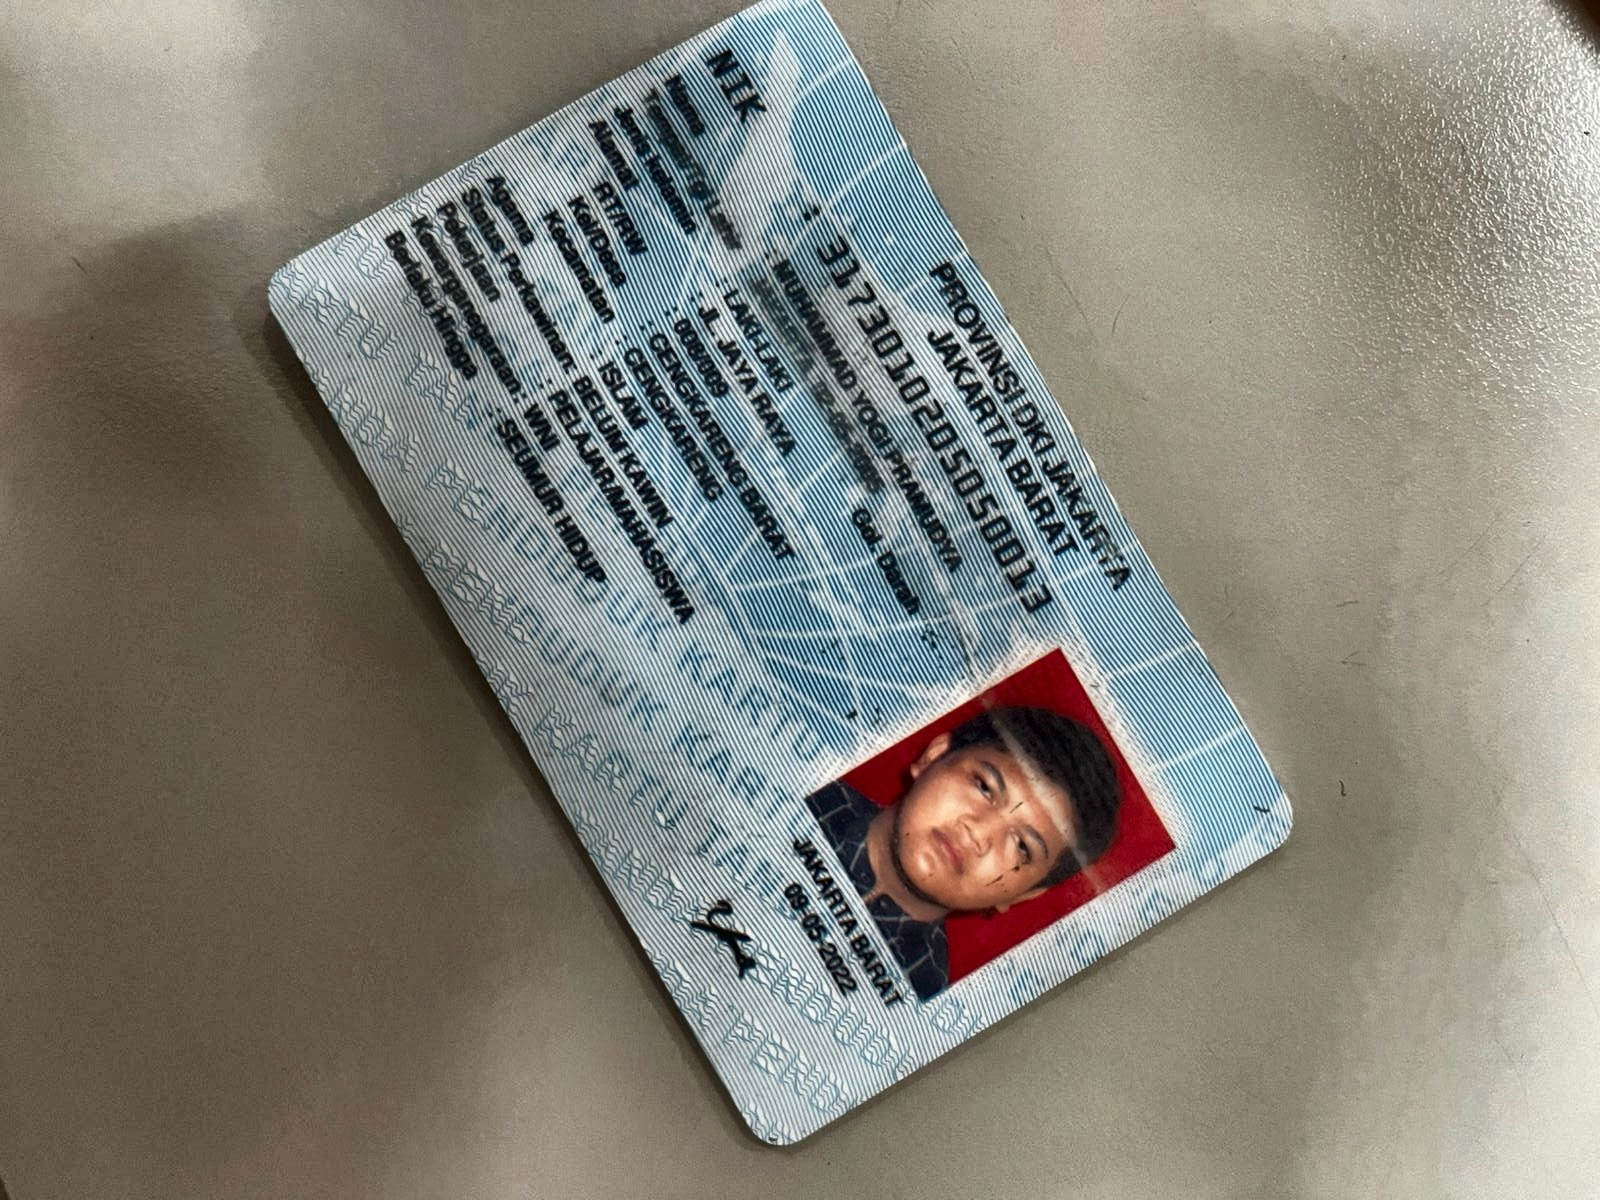
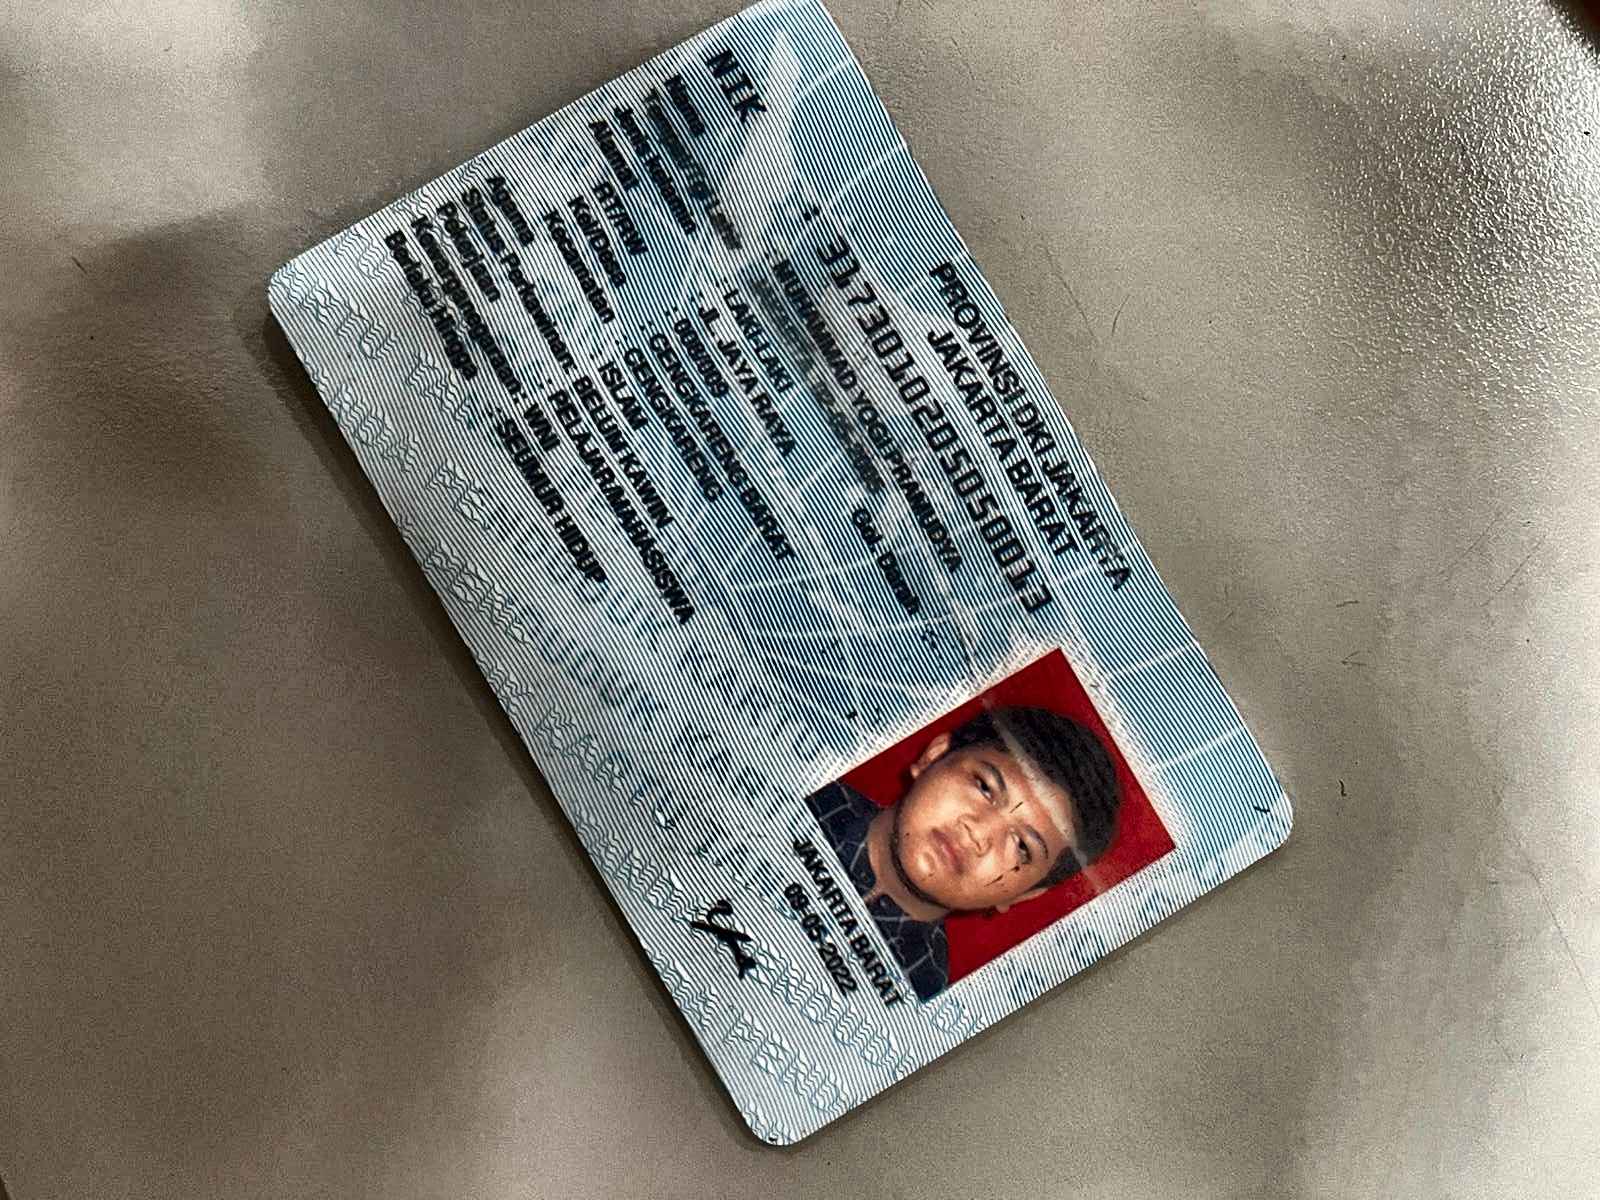
Layer 1+2: Aggressive sharpening+gamma correction preprocessing + Fuzzy label detection via rapidfuzz

Changed region(s): [[0.1562, 0.0, 0.8125, 0.8633], [0.8438, 0.0, 1.0, 0.3392], [0.5938, 0.8325, 0.625, 0.8633]]

diff --git a/backend/app/core/template_matching.py b/backend/app/core/template_matching.py
@@ -58,27 +58,59 @@ def extract_ktp_data_smart(text_blocks: list, template_config: dict) -> Dict[str
     extracted = {f: {"value": "", "confidence": 0.0} for f in all_ktp_keys}
     
     import re
-    
+    from rapidfuzz import fuzz
+
     # Kata kunci yang tergolong Label KTP (bukan nilai data)
     ALL_LABELS = [
-        "PROVINSI", "KABUPATEN", "KOTA", "NIK", "NAMA", "TEMPAT", "TGL", "LAHIR", 
-        "JENIS", "KELAMIN", "GOL", "DARAH", "ALAMAT", "RT/RW", "RT/", "/RW", 
-        "KEL/DESA", "KELURAHAN", "KECAMATAN", "AGAMA", "STATUS", "PERKAWINAN", 
+        "PROVINSI", "KABUPATEN", "KOTA", "NIK", "NAMA", "TEMPAT", "TGL", "LAHIR",
+        "JENIS", "KELAMIN", "GOL", "DARAH", "ALAMAT", "RT/RW", "RT/", "/RW",
+        "KEL/DESA", "KELURAHAN", "KECAMATAN", "AGAMA", "STATUS", "PERKAWINAN",
         "PEKERJAAN", "KEWARGANEGARAAN", "BERLAKU", "HINGGA"
     ]
-                  
+
+    # Label gabungan (multi-kata) yang sering melebur saat OCR salah baca
+    MULTI_WORD_LABELS = [
+        "JENIS KELAMIN", "GOL DARAH", "KEL DESA", "STATUS PERKAWINAN",
+        "BERLAKU HINGGA", "TEMPAT TGL LAHIR", "RT RW", "TEMPAT LAHIR"
+    ]
+
     def is_label_text(text: str) -> bool:
-        txt_u = text.upper()
+        txt_u = text.upper().strip()
+
         # Jika teksnya murni 16 digit angka NIK, itu BUKAN label
         digits = re.sub(r'\D', '', txt_u)
         if len(digits) >= 14:
             return False
-            
-        # Jika teks mengandung nama tempat/daerah khas KTP, itu BUKAN label murni
-        if any(place in txt_u for place in ["JAKARTA", "BARAT", "TIMUR", "SELATAN", "UTARA", "PUSAT", "JAWA", "SUMATERA", "BALI", "SULAWESI", "KALIMANTAN", "BANDUNG", "SURABAYA", "MEDAN", "ADM."]):
+
+        # Jika pendek tapi angka saja (misal RT/RW 008/009), bukan label
+        if re.match(r'^\d{1,3}[/\-]\d{1,3}$', txt_u):
             return False
 
-        return any(lbl in txt_u for lbl in ALL_LABELS)
+        # Jika teks mengandung nama tempat/daerah khas KTP, itu BUKAN label murni
+        if any(place in txt_u for place in [
+            "JAKARTA", "BARAT", "TIMUR", "SELATAN", "UTARA", "PUSAT",
+            "JAWA", "SUMATERA", "BALI", "SULAWESI", "KALIMANTAN",
+            "BANDUNG", "SURABAYA", "MEDAN", "ADM.", "CENGKARENG",
+            "TANGERANG", "BEKASI", "DEPOK", "BOGOR"
+        ]):
+            return False
+
+        # ── EXACT match: label ada persis di dalam teks ──
+        if any(lbl in txt_u for lbl in ALL_LABELS):
+            return True
+
+        # ── FUZZY match: tangkap label yang salah baca OCR ──
+        # Contoh: "JERISKEIAMIN" ≈ "JENIS KELAMIN" (score ~80)
+        # Hanya aktif untuk teks yang panjangnya 4-20 karakter (cukup pendek = kemungkinan label)
+        if 4 <= len(txt_u) <= 22:
+            for lbl in MULTI_WORD_LABELS:
+                if fuzz.partial_ratio(txt_u, lbl) >= 72:
+                    return True
+            for lbl in ALL_LABELS:
+                if len(lbl) >= 5 and fuzz.ratio(txt_u, lbl) >= 75:
+                    return True
+
+        return False
 
     # 1. Ekstrak koordinat tengah (center_x, center_y) untuk tiap blok
     parsed_blocks = []

diff --git a/backend/app/core/preprocessing.py b/backend/app/core/preprocessing.py
@@ -192,21 +192,44 @@ def perspective_transform_ktp(image: np.ndarray) -> np.ndarray:
 
 def reduce_glare_and_enhance(image: np.ndarray) -> np.ndarray:
     """
-    Mengurangi efek bayangan/glare dengan Adaptive CLAHE + Soft Sharpening
-    agar teks KTP tetap jelas terbaca oleh OCR.
+    Mengurangi efek bayangan/glare dengan:
+    1. Adaptive CLAHE lebih agresif untuk foto kamera HP
+    2. Unsharp Mask untuk mempertajam karakter teks
+    3. Gamma correction untuk gambar terlalu gelap/terang
+    Agar teks KTP tetap jelas terbaca meski foto agak miring/buram.
     """
     try:
-        # Konversi ke YUV / LAB untuk memproses pencahayaan tanpa merusak warna
+        # Konversi ke LAB untuk memproses pencahayaan tanpa merusak warna
         lab = cv2.cvtColor(image, cv2.COLOR_BGR2LAB)
         l, a, b = cv2.split(lab)
-        
-        # Terapkan CLAHE pada channel Luminance (L)
-        clahe = cv2.createCLAHE(clipLimit=2.0, tileGridSize=(8, 8))
+
+        # CLAHE lebih agresif (clipLimit=3.0) untuk foto kamera HP
+        clahe = cv2.createCLAHE(clipLimit=3.0, tileGridSize=(8, 8))
         cl = clahe.apply(l)
-        
+
         limg = cv2.merge((cl, a, b))
         enhanced = cv2.cvtColor(limg, cv2.COLOR_LAB2BGR)
-        return enhanced
+
+        # Unsharp Mask: pertajam tepi karakter agar OCR baca lebih akurat
+        # Rumus: sharp = original + amount * (original - blur)
+        blur = cv2.GaussianBlur(enhanced, (0, 0), sigmaX=2.0)
+        sharpened = cv2.addWeighted(enhanced, 1.5, blur, -0.5, 0)
+
+        # Gamma correction: normalisasi kecerahan foto terlalu gelap/terang
+        mean_brightness = np.mean(cv2.cvtColor(sharpened, cv2.COLOR_BGR2GRAY))
+        if mean_brightness < 80:    # Foto terlalu gelap -> terangkan
+            gamma = 0.6
+        elif mean_brightness > 200: # Foto terlalu terang/silau -> redam
+            gamma = 1.5
+        else:
+            gamma = 1.0
+
+        if gamma != 1.0:
+            inv_gamma = 1.0 / gamma
+            table = np.array([(i / 255.0) ** inv_gamma * 255 for i in range(256)]).astype(np.uint8)
+            sharpened = cv2.LUT(sharpened, table)
+
+        return sharpened
     except Exception as e:
         print(f"[GLARE REDUCE ERROR]: {e}")
         return image

diff --git a/backend/check_rapidfuzz.py b/backend/check_rapidfuzz.py
@@ -1,0 +1,6 @@
+import sys
+try:
+    import rapidfuzz
+    print("rapidfuzz_ok:" + rapidfuzz.__version__)
+except ImportError:
+    print("rapidfuzz_missing")
